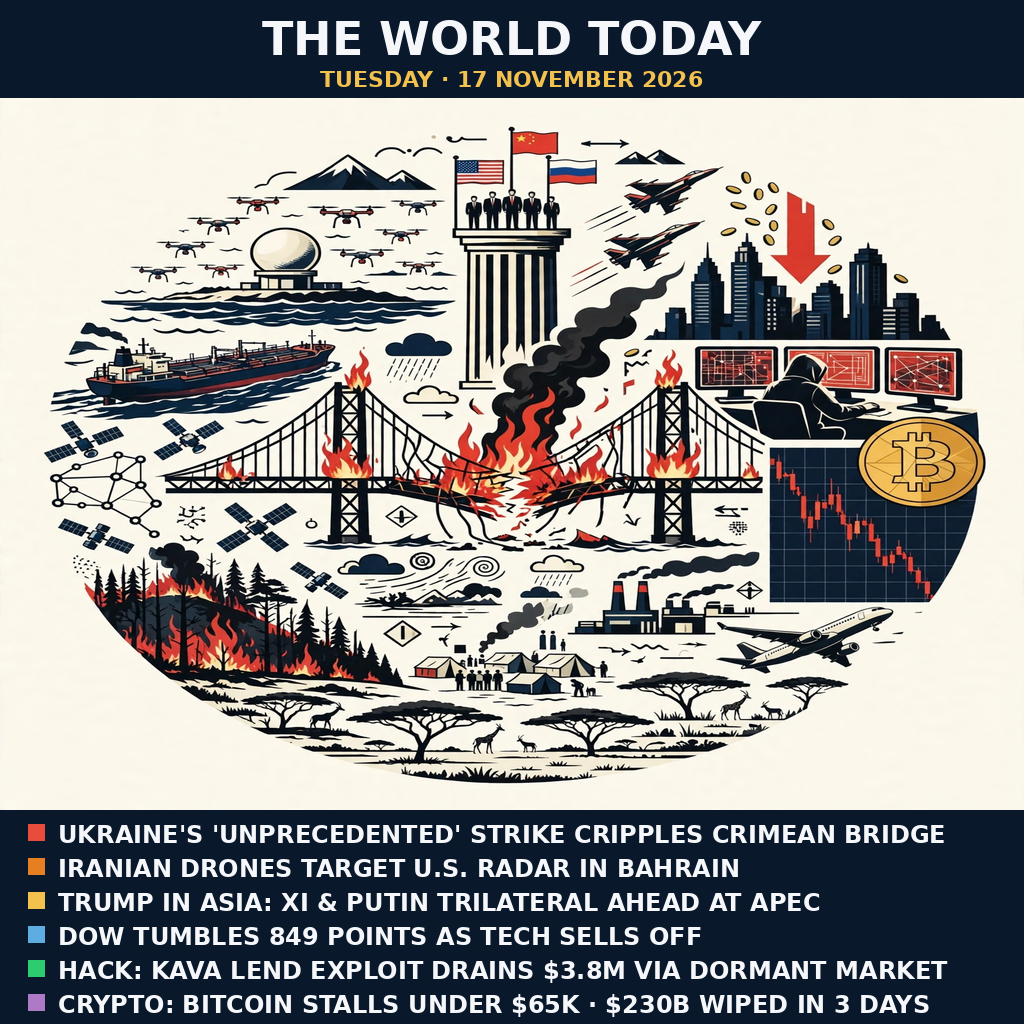
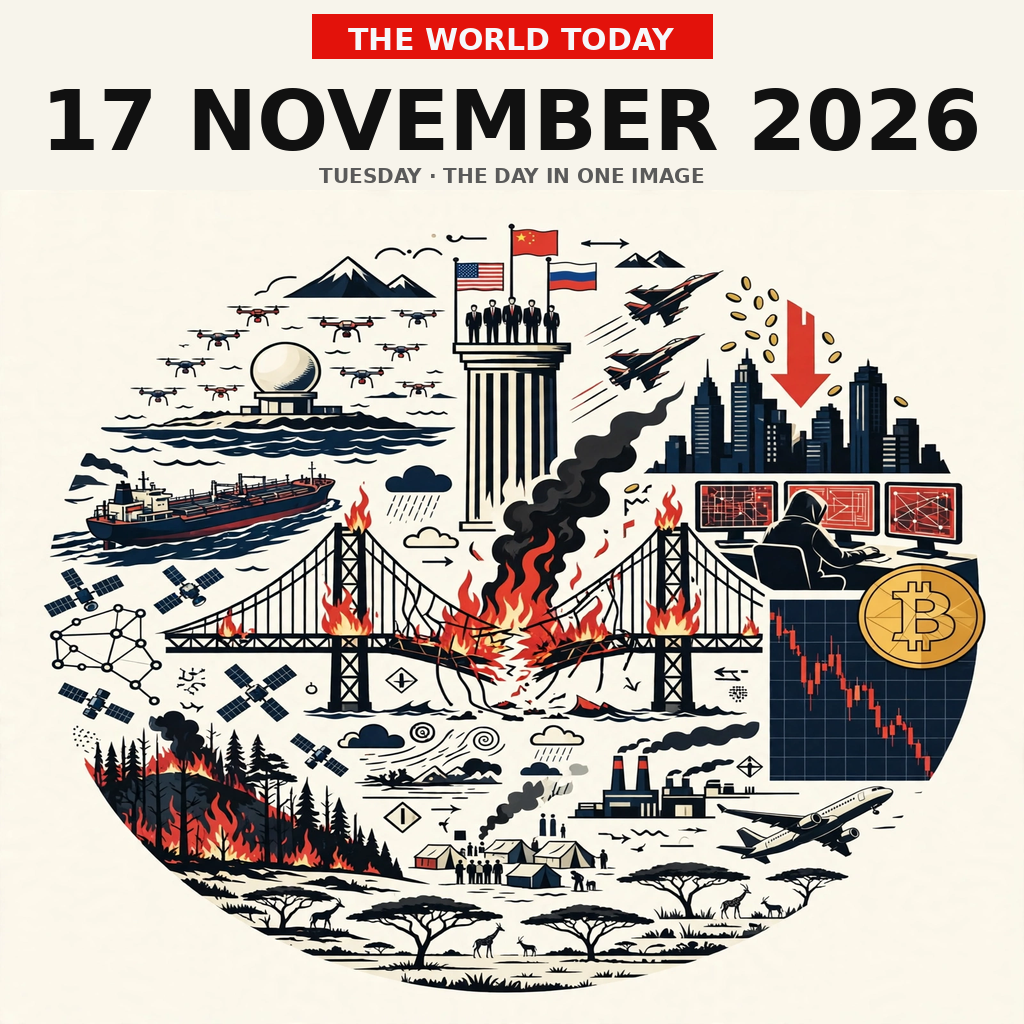
Full-bleed Economist cover layout: red masthead box, large date title, no strips

diff --git a/build_image.py b/build_image.py
@@ -20,8 +20,9 @@ hacker vignette and a Bitcoin vignette:
   - Crypto: a giant Bitcoin coin under a plunging chart (bottom) —
     bitcoin stalled below $65,000, under its 200-week average, with
     about $230B wiped from total crypto value in three days
-This script frames it as a front page: masthead on top, six headline
-strips below, and exports a PNG of at most 1024x1024 and 1 MiB.
+This script frames it as a magazine cover in the style of The
+Economist's "The World Ahead": a small red masthead box and a large
+date title above a full-bleed icon collage, at most 1024x1024, 1 MiB.
 """
 from PIL import Image, ImageDraw, ImageFont
 import os
@@ -35,7 +36,7 @@ GOLD = (242, 193, 78)
 WHITE = (245, 247, 250)
 
 W, H = 1024, 1024
-TOP_H, BOT_H = 98, 214
+TOP_H, BOT_H = 190, 0
 
 
 def font(name, size):
@@ -50,12 +51,14 @@ def centered(draw, y, text, fnt, fill):
 def main():
     art = Image.open(SRC).convert("RGB")
     art = art.resize((W, H - TOP_H - BOT_H), Image.LANCZOS)
-    page = Image.new("RGB", (W, H), NAVY)
+    page = Image.new("RGB", (W, H), (247, 244, 235))
     page.paste(art, (0, TOP_H))
     draw = ImageDraw.Draw(page)
 
-    centered(draw, 12, "THE WORLD TODAY", font("DejaVuSans-Bold.ttf", 46), WHITE)
-    centered(draw, 66, "TUESDAY · 17 NOVEMBER 2026", font("DejaVuSans-Bold.ttf", 22), GOLD)
+    draw.rectangle([312, 14, 712, 58], fill=(227, 18, 11))
+    centered(draw, 22, "THE WORLD TODAY", font("DejaVuSans-Bold.ttf", 30), WHITE)
+    centered(draw, 72, "17 NOVEMBER 2026", font("DejaVuSans-Bold.ttf", 84), (17, 17, 17))
+    centered(draw, 164, "TUESDAY · THE DAY IN ONE IMAGE", font("DejaVuSans-Bold.ttf", 20), (90, 90, 90))
 
     headlines = [
         ((231, 76, 60), "UKRAINE'S 'UNPRECEDENTED' STRIKE CRIPPLES CRIMEAN BRIDGE"),

diff --git a/README.md b/README.md
@@ -46,7 +46,9 @@ compiled from wire and front-page reports of 17 Nov 2026.
 
 The illustration is a flat red/black/navy icon collage in the style of
 *The Economist*'s "The World Ahead" covers — a circular globe of small
-iconic scenes, one per story.
+iconic scenes, one per story. The layout mirrors those covers too:
+a small red masthead box and a large date title over the full-bleed
+collage, with no headline strips.
 
 ## License
 
